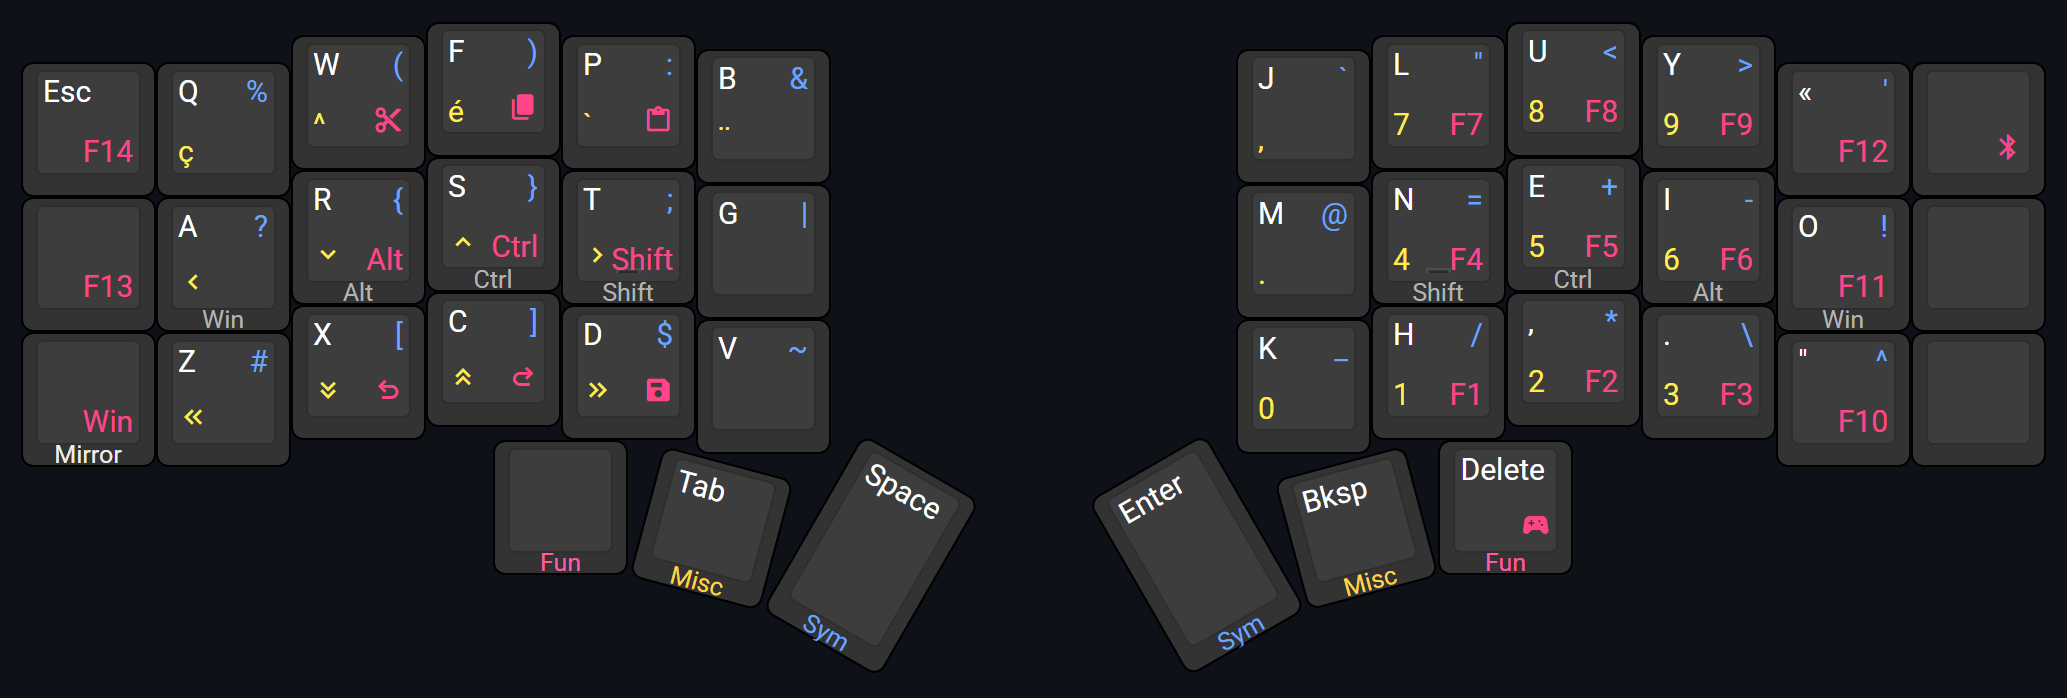
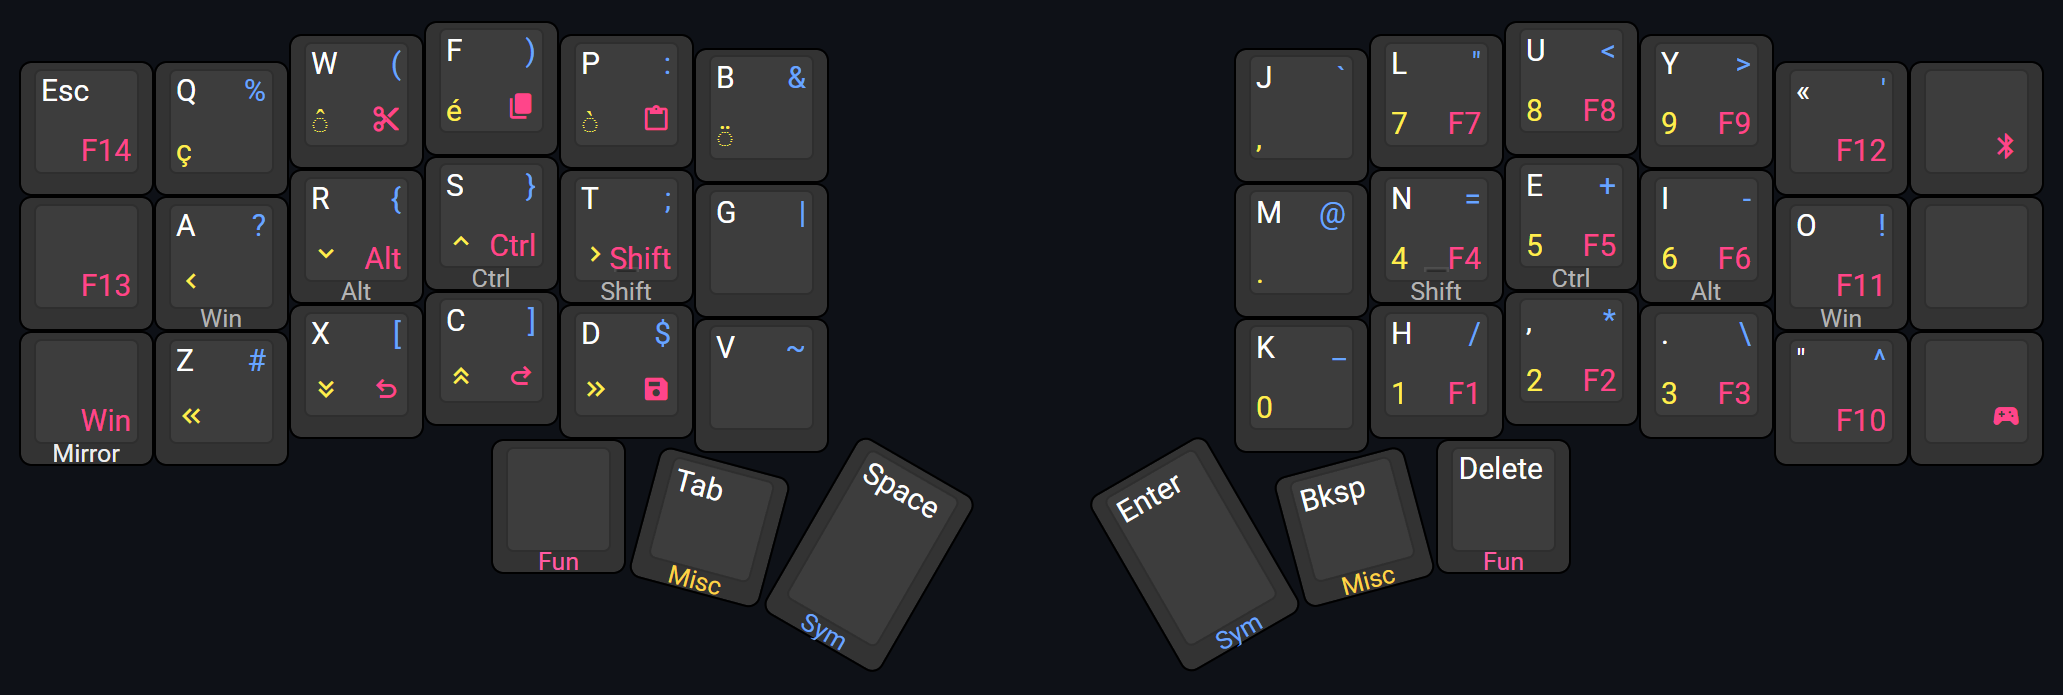
feat: cleanup for release

diff --git a/README.md b/README.md
@@ -6,7 +6,7 @@ This is my personal [ZMK firmware](https://github.com/zmkfirmware/zmk/) configur
 
 - Integrates [the nice!view Elemental module](https://github.com/kevinpastor/nice-view-elemental) for custom display;
 - Has gaming layers crafted for FPS games;
-- Implements [urob's "timer-less" homerow mods](https://github.com/urob/zmk-config);
+- Implements [urob's "timer-less" home row mods](https://github.com/urob/zmk-config);
 - Provides mirrored layers to complement mouse usage;
 - Built for the Canadian French Windows layout;
 - Uses helper macros from
@@ -21,41 +21,43 @@ This is my personal [ZMK firmware](https://github.com/zmkfirmware/zmk/) configur
 
 The overall design of the standard layers has been greatly influenced by the gaming layers described below. The reasoning behind this is to keep the same muscle memory across both groups of layers.
 
-Home row mods is setup to use the right variant of the modifiers on the right hand side to allow to switch hand if the modifier on the wrong hand was pressed. The right hand side `Alt` is the exception to this to avoid having `AltGr` registered with the Canadian French Windows layout.
+Home row mods are setup to use the right variant of the modifiers on the right hand side to allow to switch hand if the modifier was pressed using a finger on the wrong hand. The right hand side `Alt` is the exception to this to avoid having `AltGr` registered with the Canadian French Windows layout.
 
-The Canadian French Windows layout needs to be used in order for the symbols and some other characters to register properly.
-
-Some macro behaviors have been used for symbols because of an issue when using Windows RDP with the keyboard over Bluetooth.
+The Canadian French Windows layout must be used in order for the symbols and some other characters to register properly.
 
 #### Alpha Layer
 
-The alpha layer is based on the Colemak-DH layout. The position of symbols on that layer has been influenced by their usage frequency in both French and English according to [an article from Wikipedia](https://en.wikipedia.org/wiki/English_punctuation) and [an article from bépo](https://bepo.fr/wiki/Fr%C3%A9quence_des_caract%C3%A8res). Controls and whitespace keys have been placed according to their usage and their usual position on a standard keyboard.
+The alpha layer is based on the Colemak-DH layout. Controls and whitespace keys have been placed according to their usage and their usual position on a standard keyboard.
 
-Homerow mods are active for that layer.
+Extra punctuation keys where initially laid out on the outward columns, but this caused more hesitation than to use them from the symbols layer instead.
+
+Home row mods are active for that layer.
 
 #### Symbols Layer
 
-The symbols layer as been greatly inspired by [an article by Pascal Getreuer](https://getreuer.info/posts/keyboards/symbol-layer/index.html). The main difference is the mirroring of its layer to ensure inward rolls are possible for the `{`, `}`, `(`, `)`, `[`, and `]` keys.
+The symbols layer has been greatly inspired by [an article by Pascal Getreuer](https://getreuer.info/posts/keyboards/symbol-layer/index.html). The main difference is the mirroring of its layer to ensure inward rolls are possible for the `{`, `}`, `(`, `)`, `[`, and `]` keys.
 
-Homerow mods are active for that layer.
+Home row mods are active for that layer.
 
 #### Miscellaneous Layer
 
-The miscellaneous layer has been designed to provide numbers as well as extra keys like arrows and French accents. 
+The miscellaneous layer is designed to provide numbers as well as extra keys like arrows and French accents. 
 
-On the right side, the numbers have been place to mimic the numpad on a standard keyboard. A comma was added to support French decimal numbering notation.
+On the right side, the numbers have been placed to mimic the numpad on a standard keyboard. A comma was added to support French decimal numbering notation. The `0` key was initially placed on the thumb but caused issues with combos, hence its current position.
 
-The arrows have been placed on the home row to avoid hand movement. Since the left hand is often used for movement in games using WASD, the position of the up arrow has been decided according to the usual finger on the W key (i.e. the middle finger).
+The arrows have been placed on the home row to avoid hand movement. Since the left hand is often used for movement in games using WASD, the position of the up arrow has been decided according to the usual finger on the W key (i.e. the middle finger). The `Home`, `Page Down`, `Page Up`, and `End` keys were placed following the same general idea, right underneath.
 
-Accents have been placed on a row according to their frequency in French.
+Accents are placed on a row according to their frequency in French.
 
 Home row mods are only active on the right hand for that layer. This allows long press of the arrow keys. 
 
 #### Functions Layer
 
-The functions layer has been designed to resemble the numbers layer as close as possible. Function keys past `F9` were placed in regards to ergonomics.
+The functions layer is designed to resemble the numbers layer as close as possible. Function keys past `F9` were placed in regards to ergonomics.
 
-The `F13` and `F14` keys have been made available to use as dedicated mute and deafen shortcuts on Discord. They are position and accessed exactly the same on the gaming layers.
+The `F13` and `F14` keys are available as dedicated mute and deafen shortcuts on Discord. They are positioned and accessed exactly the same on the gaming layers.
+
+A Bluetooth management key is made available on that layer to cycle through profiles or to clear the current one when the `Shift` key is held.
 
 Home row mods are not active for that layer. Instead, the left hand side provides the modifier keys "as is" to be able to access them instantly without having to wait for the home row mods timeout. This is useful for side-scrolling with `Shift` and the scroll wheel or for zooming on a page with `Ctrl` and the scroll wheel.
 
@@ -64,9 +66,9 @@ Home row mods are not active for that layer. Instead, the left hand side provide
 ![Gaming layers preview](./assets/gaming-keymap.png)
 *Layout preview generated on [keyboard-layout-editor.com](http://www.keyboard-layout-editor.com/#/gists/9b497751bc9a9fc18a86e876f723288d)*
 
-To avoid having to remap every game because of Colemak-DH layout, the gaming layers are setup with QWERTY. The catch: the lefthand side is shifted right by one key to center the navigation keys (WASD) on the home row keys. This leads to better ergonomy at the expense of key compromises: some alpha keys are repositioned on another layer.
+To avoid having to remap every game because of Colemak-DH layout, the gaming layers are set up with QWERTY. The catch: the left-hand side is shifted right by one key to center the navigation keys (WASD) on the home row keys. This leads to better ergonomics at the expense of key compromises: some alpha keys are repositioned on another layer.
 
-To go to the gaming layers (G) from the standard layers, hold the leftmost thumb key and then tap the rightmost thumb key. To go back to the standard layers (S), hold the leftmost thumb key and then tap the rightmost thumb key, same as the other way around.
+To switch to the gaming layers (G) from the standard layers, hold the leftmost thumb key and tap the rightmost thumb key. Repeat the same action to return to the standard layers (S).
 
 ## References
 
@@ -79,25 +81,31 @@ To go to the gaming layers (G) from the standard layers, hold the leftmost thumb
 
 ## Changelog
 
+### 2025-04-15
+
+- Replaced the dedicated Bluetooth profile keys by one that cycles through them.
+- Created all mirror layers.
+- Added the `#` key to the gaming layers.
+
 ### 2025-02-25
 
-- Create a mirrored alpha layer
-    - Having the right-hand side keys available on the left-hand side is useful when doing operations that requires the mouse (e.g. moving the mouse cursor and then pressing Enter).
-    - The position of the mirror key is reused on other layers so mirroring then entering a layer leads to the same as entering a layer then mirroring.
+- Created a mirrored alpha layer
+    - Having the right-hand side keys available on the left-hand side is useful when doing operations that require the mouse (e.g. moving the mouse cursor and then pressing Enter).
+    - The position of the mirror key is reused on other layers, so mirroring and then entering a layer leads to the same result as entering a layer and then mirroring.
 
 ### 2024-10-31
 
-- Move the gaming layer toggle key as well as the Bluetooth profile selection keys on the other hand.
+- Moved the gaming layer toggle key and the Bluetooth profile selection keys on the other hand.
     - Having the left pinky memorize 6 different actions became problematic in games when F13 was searched, but the key on the other layer was tried instead.
 
 ### 2024-10-17
 
-- Replace key presses on the thumb keys on layers with momentary layer behaviors.
+- Replaced key presses on the thumb keys on layers with momentary layer behaviors.
     - Nested taps could occur when two characters from different layers were pressed consecutively (e.g., a number followed by a symbol, where the first layer change overlapped the second layer change).
 
 ### 2024-10-16
 
 - The gaming layers change key and the Bluetooth behaviors were moved a bit more out of the way 
-- Add macros for common use cases.
+- Added macros for common use cases.
     - The "cédille" accent in French is exclusively used on the letter c, which made sense to remove the dedicated accent key and replace it with a "c cédille" key.
-    - Undo and redo are shortcuts often used but a bit awkward to do with the homerow mods.
+    - Undo and redo are shortcuts often used but a bit awkward to do with the home row mods.
